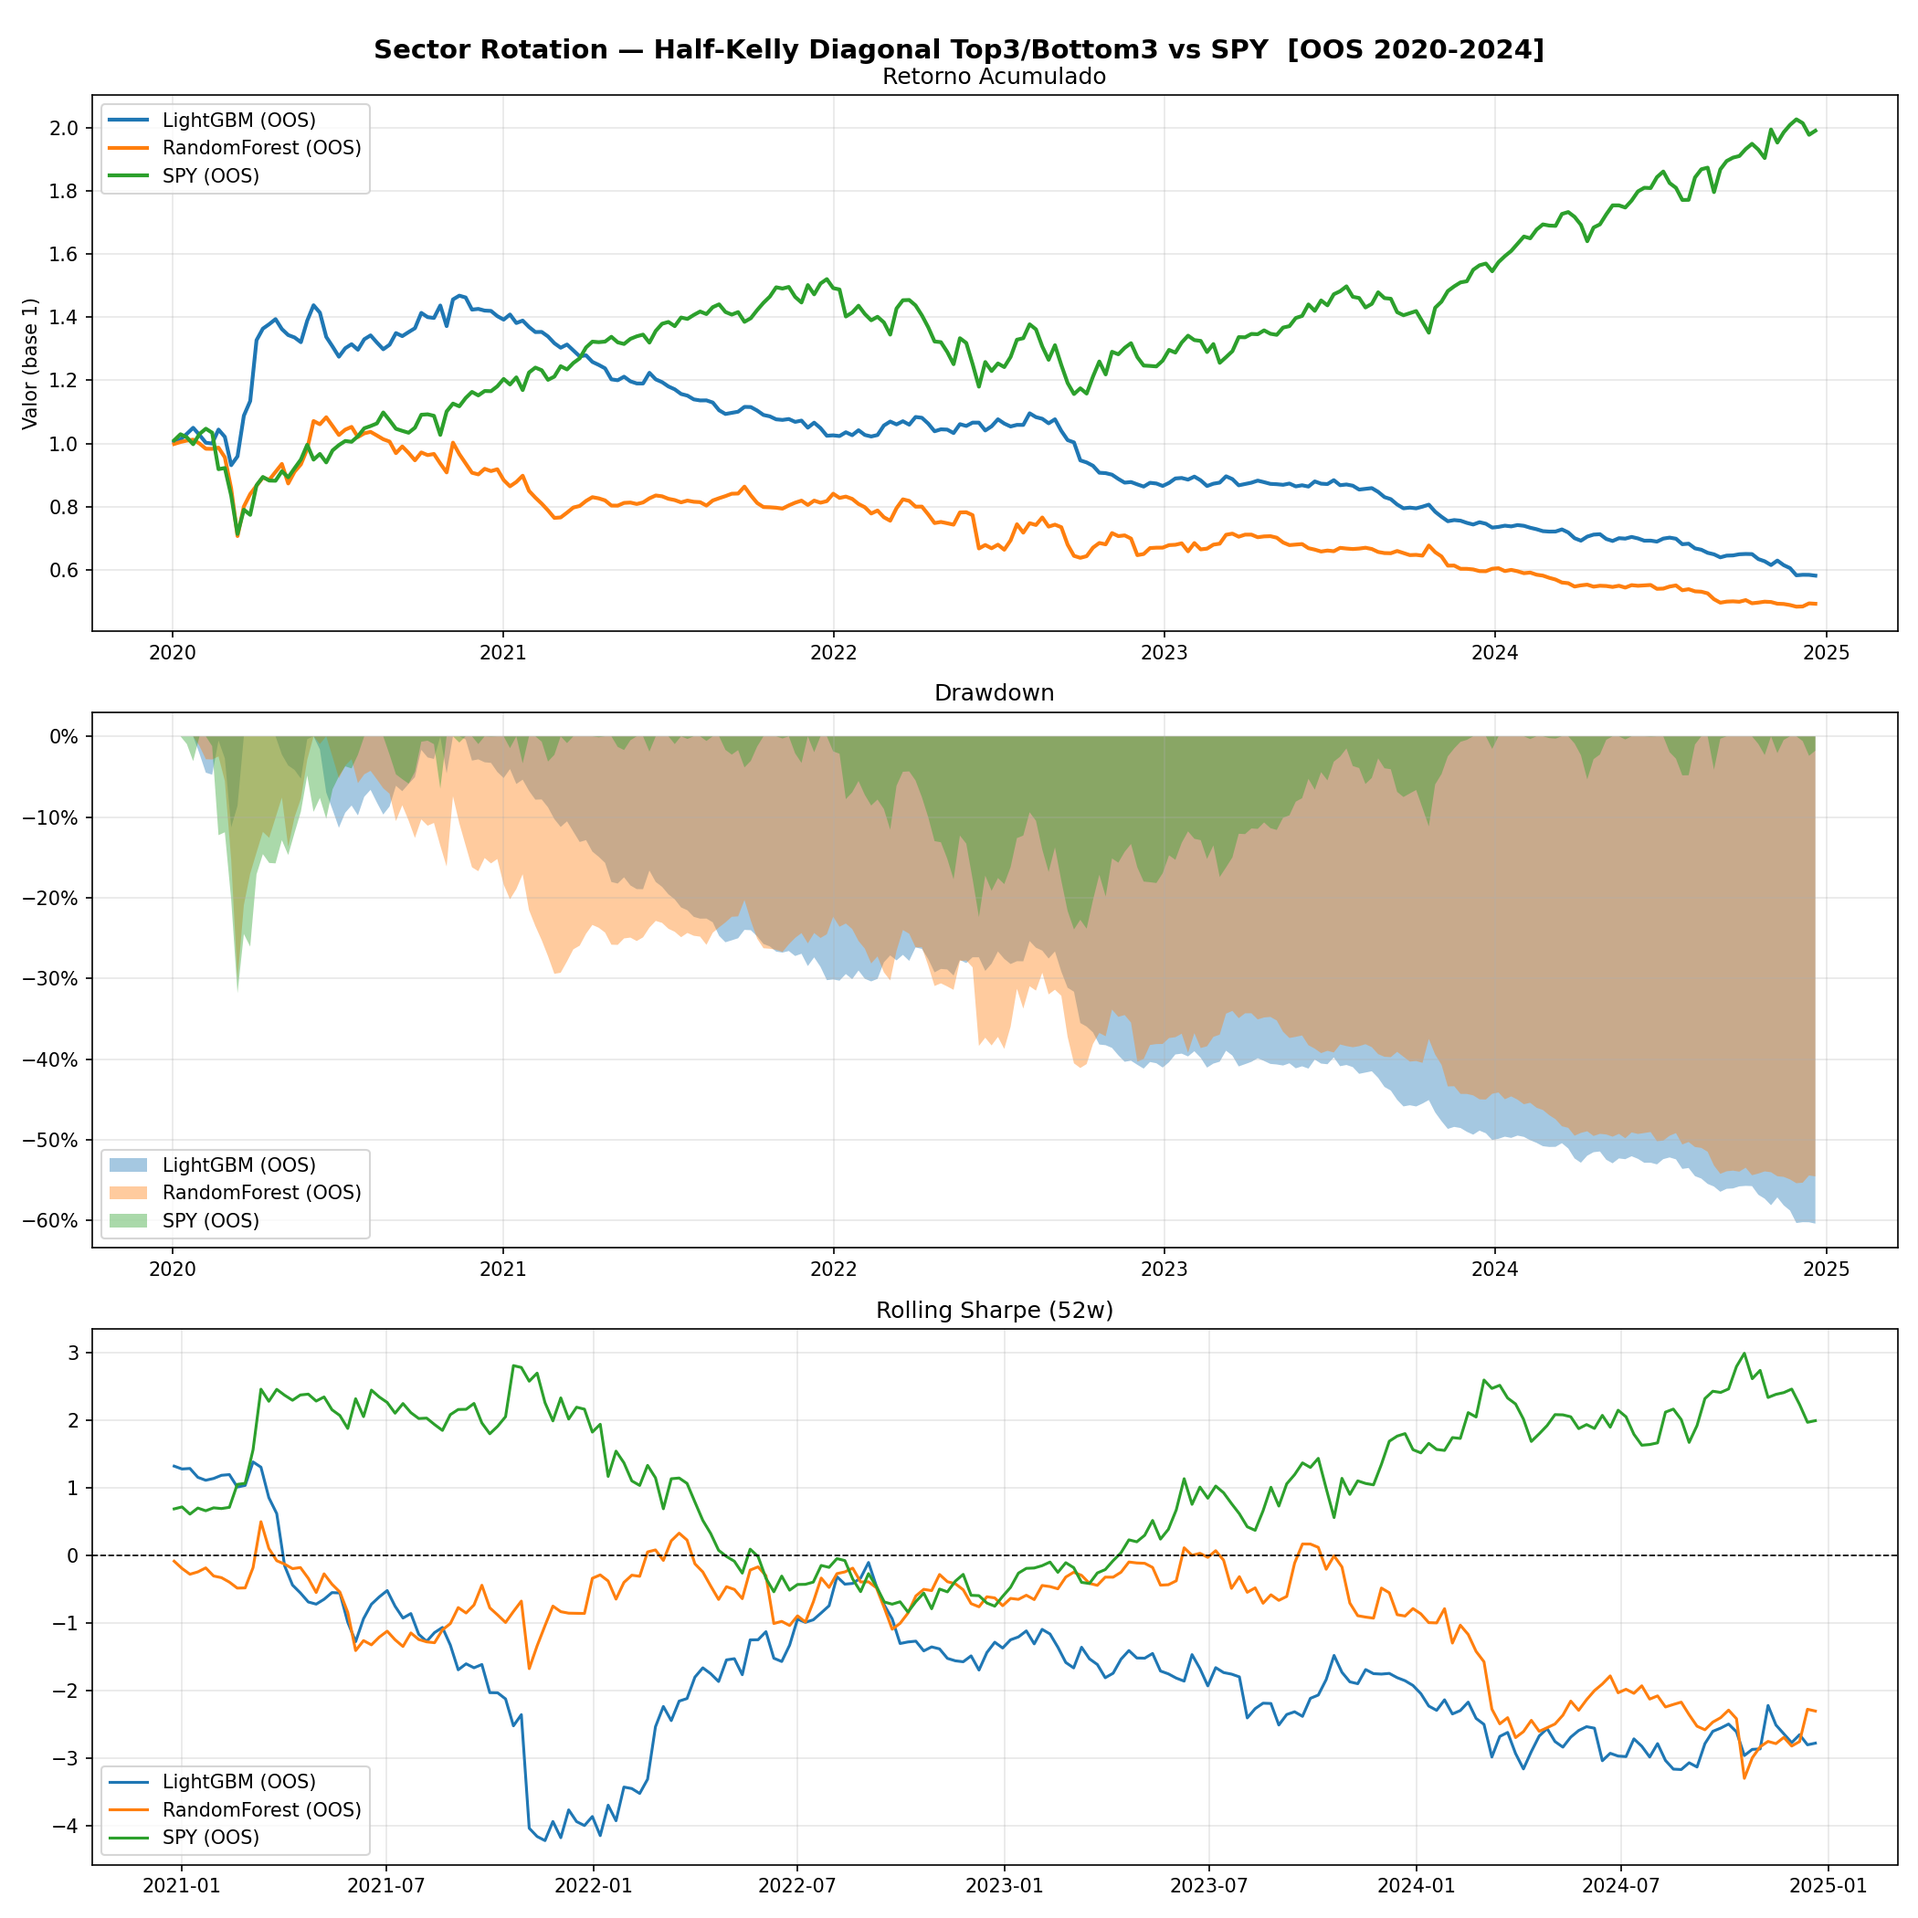
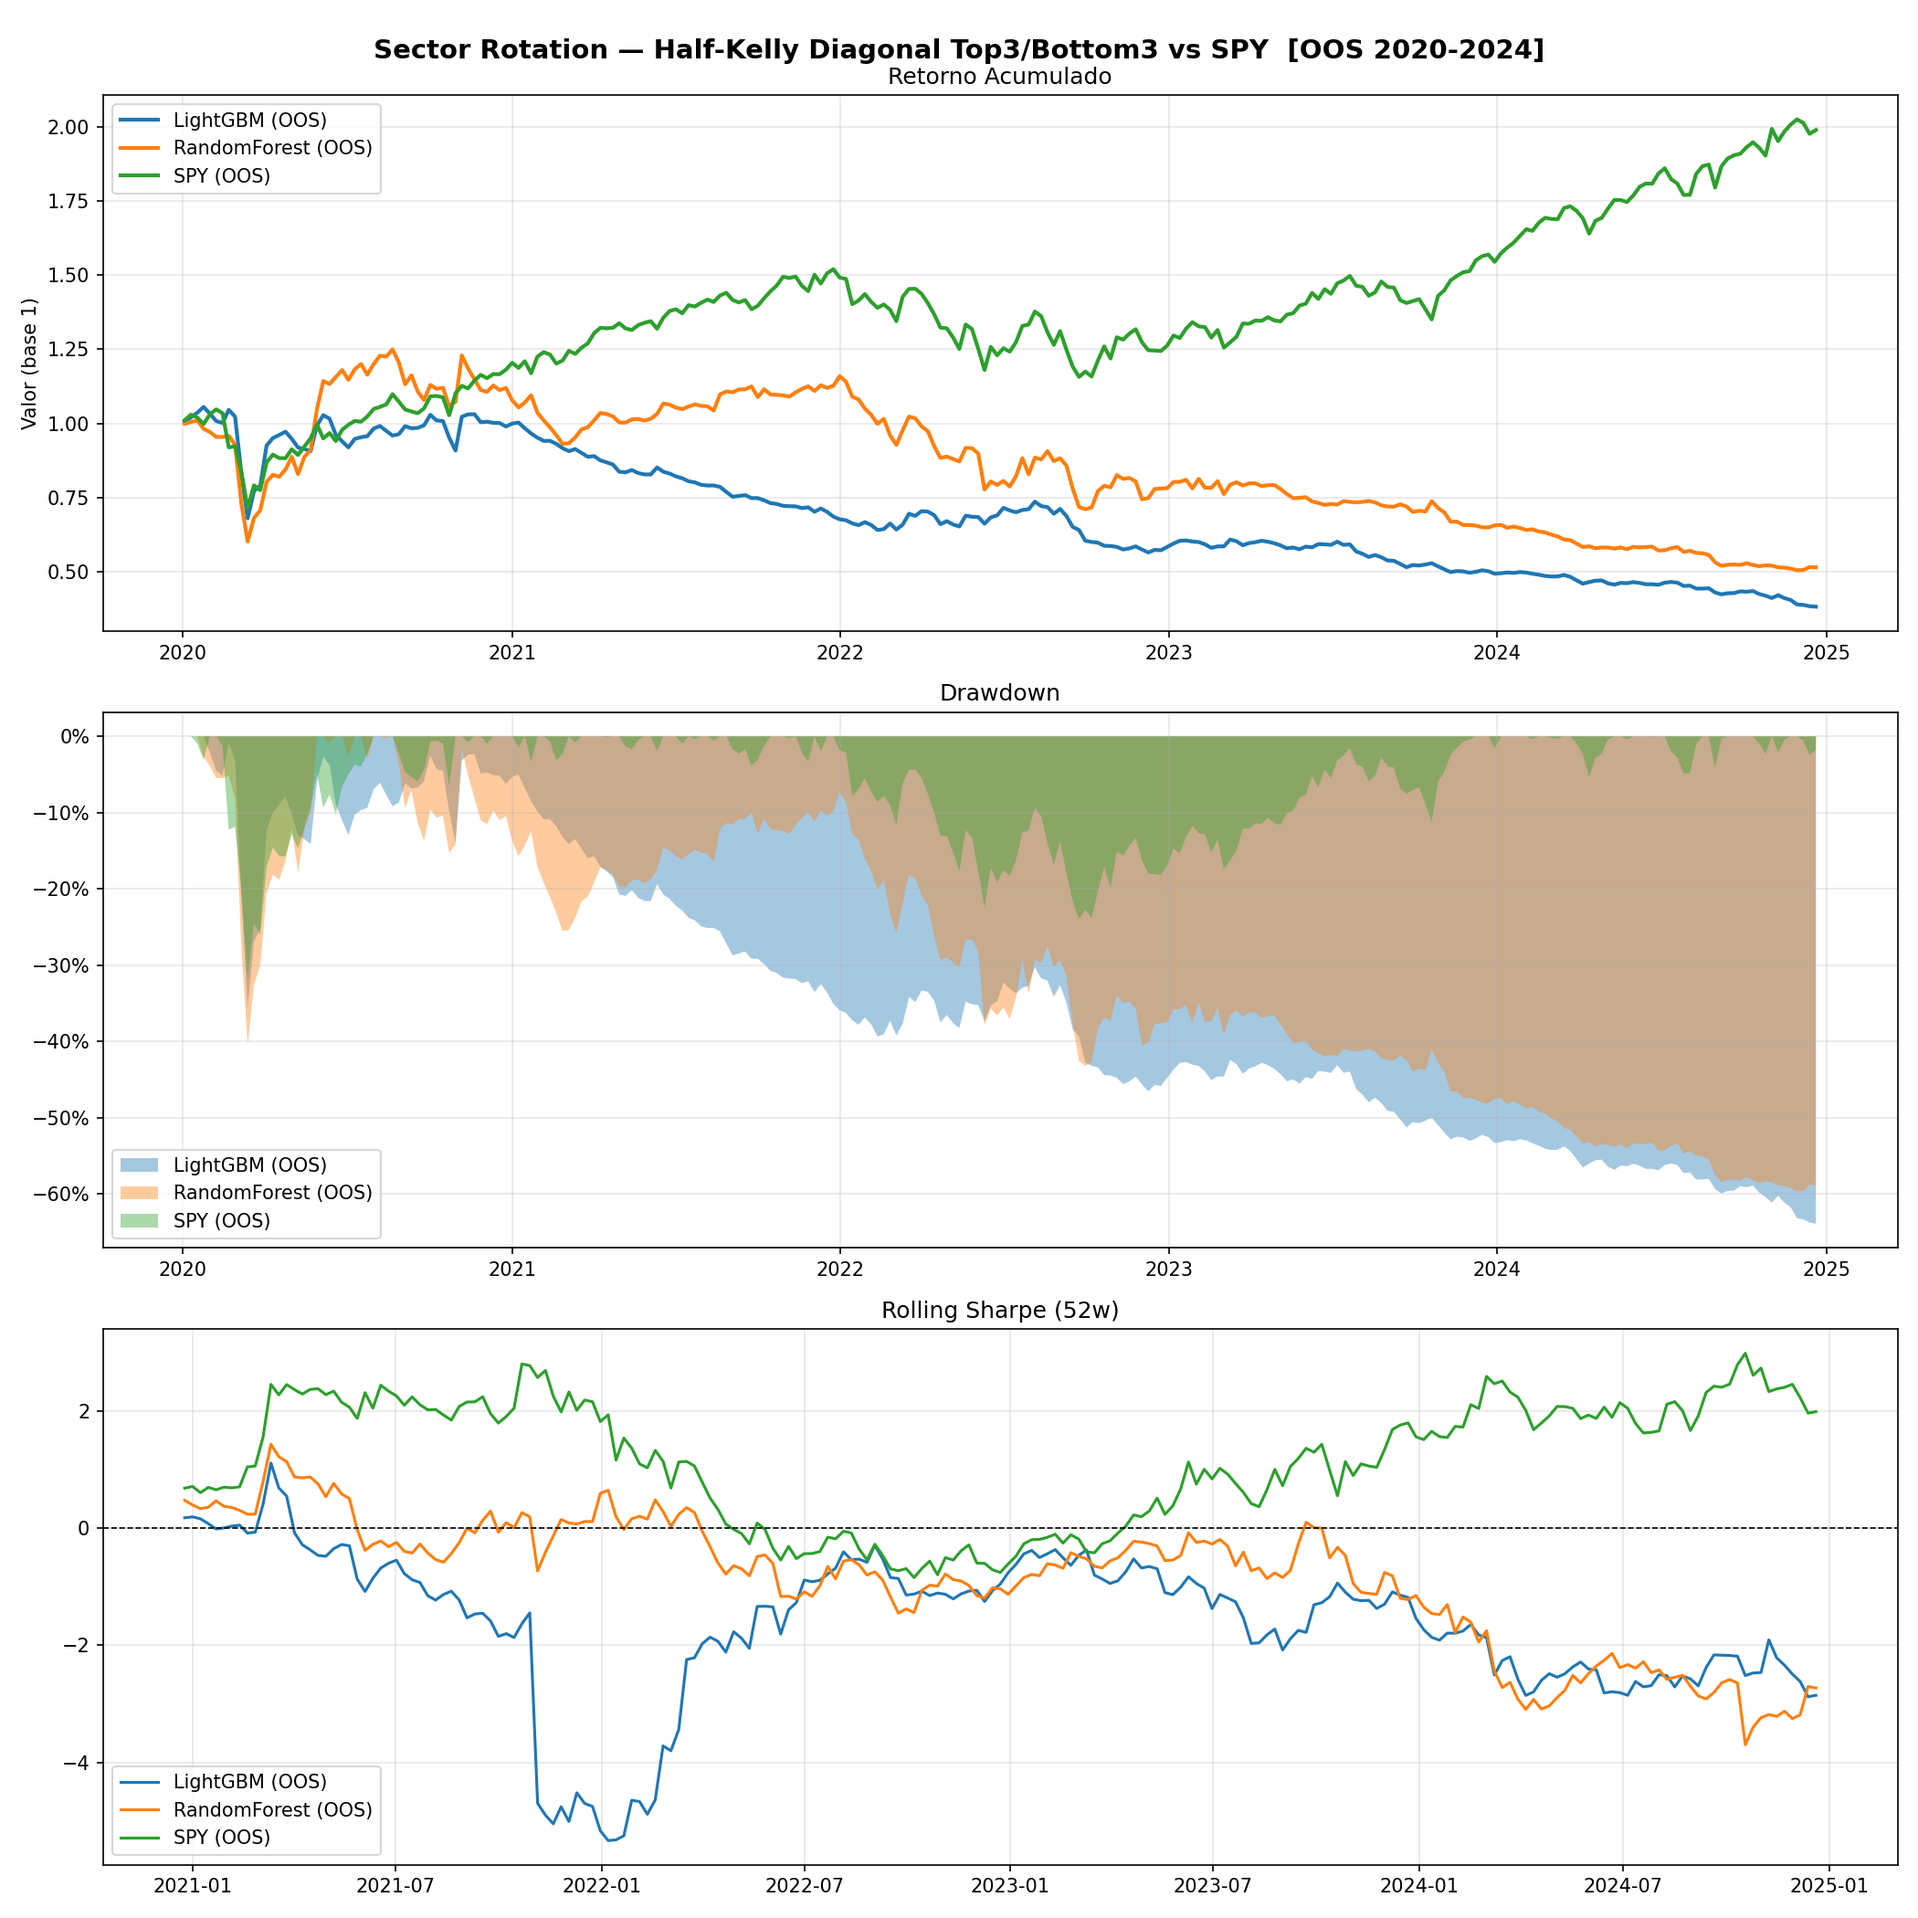
version para revision Abril 24

diff --git a/05_strategy_backtest.py b/05_strategy_backtest.py
@@ -15,10 +15,8 @@ Estrategia Long-Short con Half-Kelly diagonal por activo:
   Filtro de la pata corta (condicion AND):
     Un ETF del Bottom-N solo entra en el corto si cumple ambas condiciones:
       (1) pred_bottom < 0          (caída predicha, no solo underperformance)
-      (2) |pred_bottom| > pred_Top3  (magnitud de caída supera la subida del 3er mejor long)
+      (2) |pred_bottom| > pred_Top1  (magnitud de caída supera la subida del mejor long)
     Si no cumple ambas, su peso es 0 (semana long-only parcial o total).
-    Motivacion: filtro relajado respecto a pred_Top1 — permite más cortos cuando
-    el modelo predice caídas moderadas que superan el umbral del 3er long.
 
   Ponderación (N = activos que pasaron los filtros, entre 3 y 6):
     1. Peso base:     w_i = 1/N  (positivo para longs, negativo para shorts)
@@ -295,7 +293,7 @@ def build_portfolio(
     Para cada semana t:
 
       LONG  — Top-N ETFs (mayor predicted_return)
-      SHORT — Bottom-N ETFs que cumplen: pred<0 AND |pred|>pred_Top3
+      SHORT — Bottom-N ETFs que cumplen: pred<0 AND |pred|>pred_Top1
               (desactivado si long_only=True)
 
       Ponderacion con simple_kelly_weights() — Half-Kelly diagonal:
@@ -367,14 +365,14 @@ def build_portfolio(
         # ── Filtro de la pata corta: condicion AND ────────────────────────────
         # Un ETF del Bottom-N solo entra en el corto si cumple AMBAS:
         #   (1) pred < 0            (caida predicha real, no solo underperformance)
-        #   (2) |pred| > pred_Top3  (magnitud supera el 3er mejor long — filtro relajado)
+        #   (2) |pred| > pred_Top1  (magnitud supera el mejor long)
         # Si no cumple alguna, su peso es 0 (semana long-only parcial o total).
         if short_rets:
-            pred_top3  = float(pred_by_etf[top_etfs[-1]])  # rank 3 (3er mejor)
+            pred_top1  = float(pred_by_etf[top_etfs[0]])   # rank 1 (mejor long)
             short_etfs = [
                 e for e in short_rets.keys()
                 if float(pred_by_etf[e]) < 0
-                and abs(float(pred_by_etf[e])) > pred_top3
+                and abs(float(pred_by_etf[e])) > pred_top1
             ]
             short_rets = {e: short_rets[e] for e in short_etfs}
         else:
@@ -437,7 +435,7 @@ def build_portfolio(
     mode_str = "long-only" if long_only else f"long-short top{TOP_N}/bottom{BOTTOM_N}"
     print(f"  [Portafolio] {len(df)} semanas | Half-Kelly diagonal {mode_str}")
     if not long_only:
-        print(f"  [Filtro corto] ETFs bottom filtrados (pred>=0 o |pred|<=pred_Top3): "
+        print(f"  [Filtro corto] ETFs bottom filtrados (pred>=0 o |pred|<=pred_Top1): "
               f"{total_filtered} en total "
               f"| semanas long-only: {weeks_long_only} "
               f"| semanas corto parcial: {weeks_partial} "

diff --git a/compare_strategies.py b/compare_strategies.py
@@ -236,7 +236,7 @@ def run_comparison():
     print()
     print("Notas:")
     print(f"  X Kelly      = Half-Kelly Diagonal: Top{TOP_N} largo + Bottom{BOTTOM_N} corto "
-          f"(filtro: pred<0 AND |pred|>pred_Top{TOP_N})")
+          f"(filtro: pred<0 AND |pred|>pred_Top1)")
     print(f"  X Top3       = Solo pata larga: Top{TOP_N} con pesos Half-Kelly Diagonal, sin posiciones cortas")
     print("  X Short3     = Solo pata corta standalone: -short_return del modelo completo")
     print("                 (positivo = ganancia en corto; 0 = semana sin posición por filtro simétrico)")
@@ -286,7 +286,7 @@ def plot_cumulative(strategies: dict, oos_idx):
     fig.suptitle(
         f"Portafolio Long-Short Kelly (—) vs Top-{TOP_N} Long-Only (--) vs SPY  |  Por Modelo\n"
         f"OOS {OOS_START[:4]}–{OOS_END[:4]}  (semanal)  |  Half-Kelly Diagonal · "
-        f"Filtro: pred<0 AND |pred|>pred_Top{TOP_N} · Costos {COST_BPS} bps",
+        f"Filtro: pred<0 AND |pred|>pred_Top1 · Costos {COST_BPS} bps",
         fontsize=12, fontweight="bold",
     )
 

diff --git a/README.md b/README.md
@@ -201,7 +201,7 @@ Umbrales de referencia (Grinold & Kahn 2000, *Active Portfolio Management*):
 ### Estrategia de cartera — Long/Short con Half-Kelly diagonal
 
 - **Long**: Top-`TOP_N` ETFs por retorno predicho, ponderación Half-Kelly diagonal por activo
-- **Short**: Bottom-`BOTTOM_N` ETFs con **filtro doble** (pred < 0 AND |pred| > pred_Top3),
+- **Short**: Bottom-`BOTTOM_N` ETFs con **filtro doble** (pred < 0 AND |pred| > pred_Top1),
   peso = 0 si no cumple ambas condiciones (long-only parcial esa semana)
 - **Kelly diagonal**: `hk_i = KELLY_FRACTION × |pred_i| / var_i` (por activo, sin matriz de covarianza)
 - **var_i**: varianza histórica causal de `KELLY_LOOKBACK_WEEKS` semanas (solo datos ≤ t)
